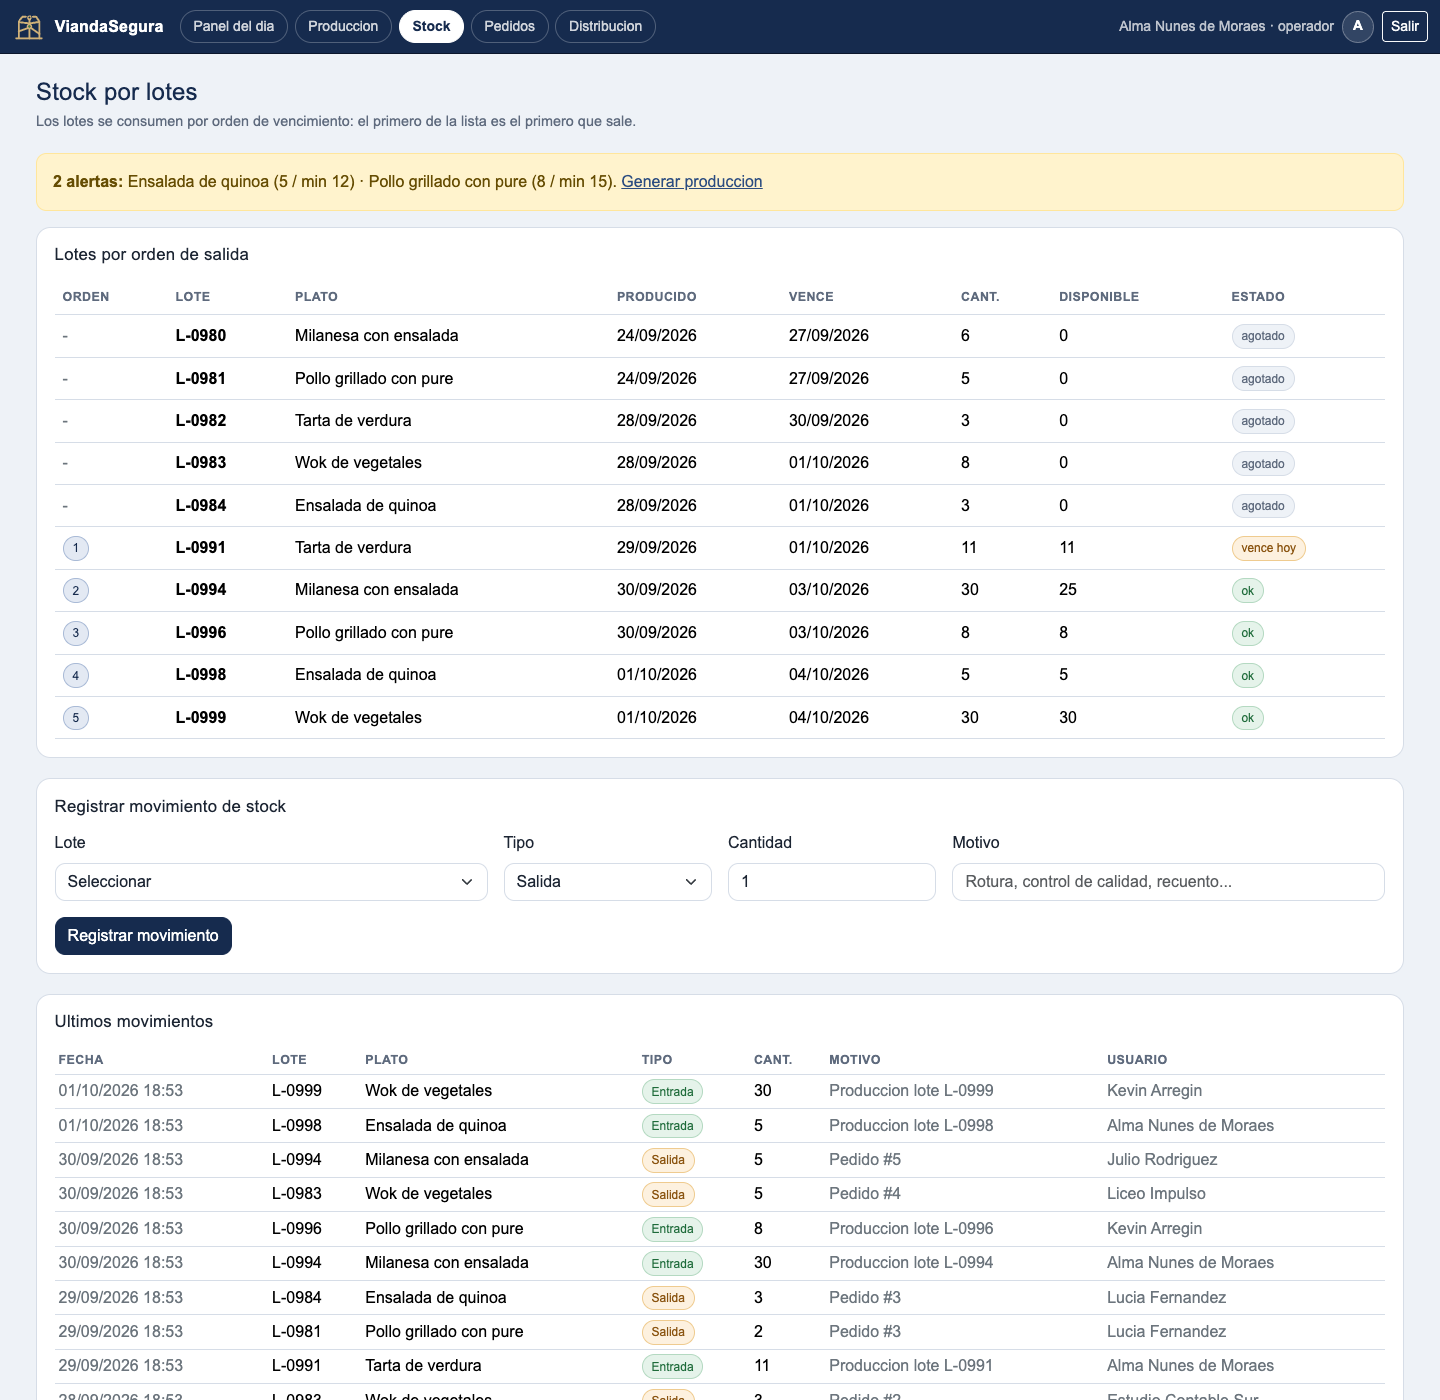
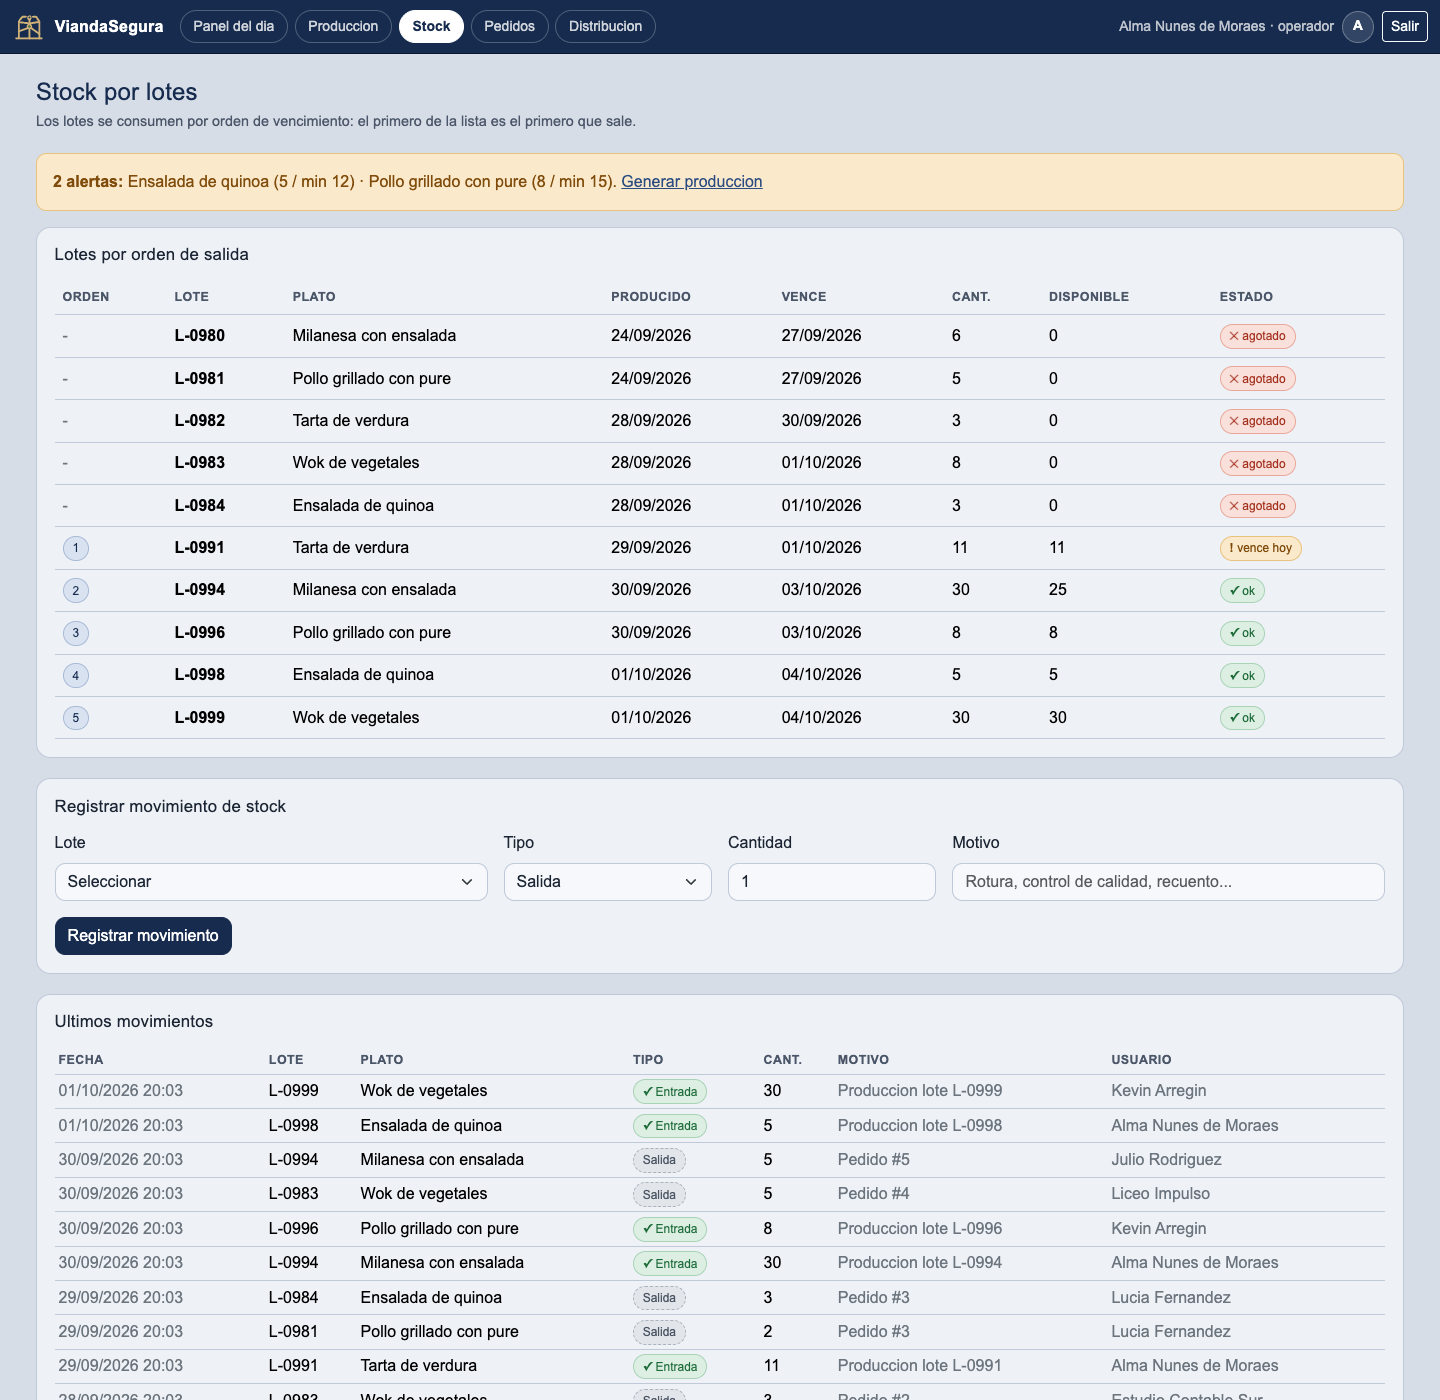
fix: clearer status label colors and dimmer panels
- One consistent status scale across every screen, each color with its
  own symbol: green check = available/ok, amber ! = needs attention,
  red cross = sold out/expired/cancelled, dashed grey = neutral or out
  of use, blue = in progress
- 'agotado' is now red everywhere (client menu, order form, stock lots,
  minimum stock); expired lots and cancelled orders too
- Order state colors come from a single clase_estado() helper, which
  also fixes cancelled orders showing as in-progress on the dashboard
- Stock movements: Salida is neutral instead of a warning, Ajuste blue
- Sold-out dishes in the client menu are muted with a dashed border
  instead of lowering the opacity of the whole card (and its label)
- Darker page background (#d6dde7) and off-white panels (#eef1f6) with
  stronger borders; secondary text darkened to keep AA contrast
- Warning banners use the same amber as the labels
- Document the color scale in docs/pantallas.md and refresh screenshots

Closes #8

diff --git a/sistema/assets/css/atrax.css b/sistema/assets/css/atrax.css
@@ -6,30 +6,38 @@
   --azul-600: #2b4c80;
   --azul-500: #3d5e91;
   --azul-300: #a9bad6;
-  --azul-200: #ccd7e8;
-  --azul-100: #e3e9f3;
-  --azul-50: #f2f5fa;
+  --azul-200: #c3d0e6;
+  --azul-100: #d9e2f1;
+  --azul-50: #dfe6f0;
   --dorado: #d0b178;
 
-  --papel: #f8fafc;
-  --papel-2: #eef2f7;
+  /* Superficies: fondo gris azulado y paneles en blanco roto (issue #8: menos brillo). */
+  --papel: #e4e9f0;
+  --papel-2: #d6dde7;
+  --superficie: #eef1f6;
+  --superficie-alta: #f6f8fb;
   --tinta: #1c2533;
-  --tinta-2: #5e6a7d;
-  --linea: #d6dde7;
+  --tinta-2: #4b5669;
+  --linea: #bfc9d7;
 
-  --ok-fondo: #e5f3ea;
-  --ok-borde: #b4d9c1;
+  /* Escala de estados: verde ok, ambar atencion, rojo agotado/vencido/cancelado,
+     gris inactivo/descartado y azul para lo que esta en curso. */
+  --ok-fondo: #dcefe2;
+  --ok-borde: #a9d3b7;
   --ok-texto: #1e6b3a;
-  --aviso-fondo: #fdf1df;
-  --aviso-borde: #efcb8f;
-  --aviso-texto: #8a5410;
-  --error-fondo: #fbe9e6;
-  --error-borde: #efb8ae;
+  --aviso-fondo: #fbe9cc;
+  --aviso-borde: #e9c27e;
+  --aviso-texto: #7f4c0b;
+  --error-fondo: #f9e0db;
+  --error-borde: #eaa89b;
   --error-texto: #a3301d;
+  --neutro-fondo: #e2e5ea;
+  --neutro-borde: #aab2be;
+  --neutro-texto: #4b5563;
 
   --bs-primary: #162b4e;
   --bs-primary-rgb: 22, 43, 78;
-  --bs-body-bg: #fff;
+  --bs-body-bg: var(--superficie-alta);
   --bs-body-color: var(--tinta);
   --bs-border-color: var(--linea);
   --bs-link-color: var(--azul-600);
@@ -78,6 +86,13 @@ h1, h2, h3 { letter-spacing: .2px; }
   --bs-btn-hover-border-color: #86271a;
   --bs-btn-active-bg: #6f2015;
   --bs-btn-active-border-color: #6f2015;
+}
+
+.alert-warning {
+  --bs-alert-bg: var(--aviso-fondo);
+  --bs-alert-border-color: var(--aviso-borde);
+  --bs-alert-color: var(--aviso-texto);
+  --bs-alert-link-color: var(--aviso-texto);
 }
 
 .form-control:focus, .form-select:focus {
@@ -151,7 +166,7 @@ h1, h2, h3 { letter-spacing: .2px; }
   font-size: .875rem;
   color: var(--tinta-2);
   text-decoration: none;
-  background: #fff;
+  background: var(--superficie);
 }
 
 .atrax-pills .pill:hover { border-color: var(--azul-300); color: var(--azul); }
@@ -166,7 +181,7 @@ h1, h2, h3 { letter-spacing: .2px; }
 .atrax-topbar .atrax-pills .pill:hover { border-color: rgba(255, 255, 255, .6); color: #fff; }
 .atrax-topbar .atrax-pills .pill.active { background: #fff; border-color: #fff; color: var(--azul); font-weight: 600; }
 
-.atrax-sidebar { background: #fff; border-right: 1px solid var(--linea); min-height: 100%; }
+.atrax-sidebar { background: var(--superficie); border-right: 1px solid var(--linea); min-height: 100%; }
 .atrax-sidebar .nav-link { color: var(--tinta-2); border-radius: .5rem; padding: .5rem .75rem; }
 .atrax-sidebar .nav-link:hover { background: var(--azul-50); color: var(--azul); }
 .atrax-sidebar .nav-link.active {
@@ -205,11 +220,11 @@ h1, h2, h3 { letter-spacing: .2px; }
   text-align: center;
   font-size: .8rem;
   color: var(--tinta-2);
-  background: #fff;
+  background: var(--superficie);
 }
 
 .tarjeta {
-  background: #fff;
+  background: var(--superficie);
   border: 1px solid var(--linea);
   border-radius: .9rem;
   padding: 1.1rem;
@@ -226,11 +241,13 @@ h1, h2, h3 { letter-spacing: .2px; }
 
 .tarjeta-numero { font-size: 2rem; font-weight: 700; line-height: 1.1; color: var(--azul); }
 .tarjeta-pie { font-size: .8rem; color: var(--tinta-2); }
-.tarjeta.alerta { border-color: var(--aviso-borde); background: #fff8ec; }
+.tarjeta.alerta { border-color: var(--aviso-borde); background: #f6e8cf; }
+.tarjeta.agotado { background: var(--papel); border-style: dashed; }
+.tarjeta.agotado h3, .tarjeta.agotado p { color: var(--tinta-2); }
 .tarjeta.alerta .tarjeta-numero { color: var(--aviso-texto); }
 
 .panel {
-  background: #fff;
+  background: var(--superficie);
   border: 1px solid var(--linea);
   border-radius: .9rem;
   padding: 1.1rem;
@@ -265,19 +282,30 @@ h1, h2, h3 { letter-spacing: .2px; }
 .table thead th { font-size: .78rem; text-transform: uppercase; letter-spacing: .4px; color: var(--tinta-2); }
 
 .etiqueta {
-  display: inline-block;
+  display: inline-flex;
+  align-items: center;
+  gap: .3em;
   padding: .15rem .55rem;
   border-radius: 999px;
   font-size: .75rem;
-  border: 1px solid var(--linea);
-  background: var(--papel-2);
-  color: var(--tinta-2);
+  font-weight: 500;
+  border: 1px dashed var(--neutro-borde);
+  background: var(--neutro-fondo);
+  color: var(--neutro-texto);
   white-space: nowrap;
 }
 
+/* Cada estado lleva un simbolo ademas del color, para no depender solo de el. */
+.etiqueta.ok, .etiqueta.aviso, .etiqueta.peligro { border-style: solid; }
+.etiqueta.ok::before, .etiqueta.aviso::before, .etiqueta.peligro::before { font-weight: 700; line-height: 1; }
+
 .etiqueta.ok { background: var(--ok-fondo); border-color: var(--ok-borde); color: var(--ok-texto); }
+.etiqueta.ok::before { content: "\2713"; content: "\2713" / ""; }
 .etiqueta.aviso { background: var(--aviso-fondo); border-color: var(--aviso-borde); color: var(--aviso-texto); }
-.etiqueta.acento { background: var(--azul-100); border-color: var(--azul-300); color: var(--azul); }
+.etiqueta.aviso::before { content: "!"; content: "!" / ""; }
+.etiqueta.peligro { background: var(--error-fondo); border-color: var(--error-borde); color: var(--error-texto); }
+.etiqueta.peligro::before { content: "\2715"; content: "\2715" / ""; }
+.etiqueta.acento { background: var(--azul-100); border: 1px solid var(--azul-300); color: var(--azul); }
 
 .linea-tiempo { list-style: none; margin: 0; padding: 0; }
 .linea-tiempo li { display: flex; gap: .75rem; padding-bottom: 1rem; position: relative; }
@@ -295,7 +323,7 @@ h1, h2, h3 { letter-spacing: .2px; }
   height: 24px;
   border-radius: 50%;
   border: 2px solid var(--linea);
-  background: #fff;
+  background: var(--superficie-alta);
   display: flex;
   align-items: center;
   justify-content: center;
@@ -312,7 +340,7 @@ h1, h2, h3 { letter-spacing: .2px; }
 .acceso-tarjeta {
   width: 100%;
   max-width: 420px;
-  background: #fff;
+  background: var(--superficie-alta);
   border: 1px solid rgba(255, 255, 255, .6);
   border-radius: 1rem;
   padding: 2rem 1.75rem;
@@ -352,7 +380,7 @@ h1, h2, h3 { letter-spacing: .2px; }
   align-items: flex-start;
   gap: .75rem;
   padding: .85rem .9rem .95rem;
-  background: #fff;
+  background: var(--superficie-alta);
   border: 1px solid var(--linea);
   border-left: 4px solid var(--azul);
   border-radius: .8rem;
@@ -428,7 +456,7 @@ h1, h2, h3 { letter-spacing: .2px; }
 }
 
 .vs-modal .modal-header { border-bottom-color: var(--linea); }
-.vs-modal .modal-footer { border-top-color: var(--linea); background: var(--papel); }
+.vs-modal .modal-footer { border-top-color: var(--linea); background: var(--superficie); }
 .vs-modal .modal-title { color: var(--azul); }
 
 .vs-modal-icono {

diff --git a/sistema/operador/stock.php b/sistema/operador/stock.php
@@ -56,9 +56,9 @@ require __DIR__ . '/../includes/cabecera.php';
             <td><?= (int) $lote['disponible'] ?></td>
             <td>
               <?php if ($lote['estado'] !== 'Disponible'): ?>
-                <span class="etiqueta"><?= e(strtolower($lote['estado'])) ?></span>
+                <span class="etiqueta <?= $lote['estado'] === 'Agotado' ? 'peligro' : '' ?>"><?= e(strtolower($lote['estado'])) ?></span>
               <?php elseif ((int) $lote['dias_para_vencer'] < 0): ?>
-                <span class="etiqueta aviso">vencido</span>
+                <span class="etiqueta peligro">vencido</span>
               <?php elseif ((int) $lote['dias_para_vencer'] === 0): ?>
                 <span class="etiqueta aviso">vence hoy</span>
               <?php else: ?>
@@ -129,7 +129,7 @@ require __DIR__ . '/../includes/cabecera.php';
             <td class="text-secondary"><?= fecha_hora($movimiento['fecha']) ?></td>
             <td><?= e($movimiento['numero_lote']) ?></td>
             <td><?= e($movimiento['producto']) ?></td>
-            <td><span class="etiqueta <?= $movimiento['tipo'] === 'Entrada' ? 'ok' : 'aviso' ?>"><?= e($movimiento['tipo']) ?></span></td>
+            <td><span class="etiqueta <?= $movimiento['tipo'] === 'Entrada' ? 'ok' : ($movimiento['tipo'] === 'Ajuste' ? 'acento' : '') ?>"><?= e($movimiento['tipo']) ?></span></td>
             <td><?= (int) $movimiento['cantidad'] ?></td>
             <td class="text-secondary"><?= e($movimiento['motivo']) ?></td>
             <td class="text-secondary"><?= e($movimiento['usuario']) ?></td>

diff --git a/sistema/operador/distribucion.php b/sistema/operador/distribucion.php
@@ -75,7 +75,7 @@ require __DIR__ . '/../includes/cabecera.php';
             <article class="tarjeta">
               <div class="d-flex justify-content-between align-items-start mb-1">
                 <h3 class="h6 mb-0"><?= e($vehiculo['nombre'] . ' · ' . $vehiculo['zona_codigo']) ?></h3>
-                <span class="etiqueta <?= $lleno ? 'aviso' : ($vehiculo['estado'] === 'Disponible' ? 'ok' : '') ?>">
+                <span class="etiqueta <?= $lleno ? 'aviso' : ($vehiculo['estado'] === 'Disponible' ? 'ok' : ($vehiculo['estado'] === 'En ruta' ? 'acento' : '')) ?>">
                   <?= $lleno ? 'capacidad llena' : e($vehiculo['estado']) ?>
                 </span>
               </div>
@@ -97,7 +97,7 @@ require __DIR__ . '/../includes/cabecera.php';
                         <button class="btn btn-sm btn-outline-secondary" type="submit">Quitar</button>
                       </form>
                     <?php else: ?>
-                      <span class="etiqueta acento"><?= e($pedido['estado']) ?></span>
+                      <span class="etiqueta <?= clase_estado($pedido['estado']) ?>"><?= e($pedido['estado']) ?></span>
                     <?php endif; ?>
                   </li>
                 <?php endforeach; ?>

diff --git a/sistema/admin/stock.php b/sistema/admin/stock.php
@@ -30,7 +30,10 @@ require __DIR__ . '/../includes/cabecera.php';
         </thead>
         <tbody>
           <?php foreach ($productos as $producto): ?>
-            <?php $bajo = (int) $producto['disponible'] < (int) $producto['stock_minimo']; ?>
+            <?php
+            $agotado = (int) $producto['disponible'] <= 0;
+            $bajo    = (int) $producto['disponible'] < (int) $producto['stock_minimo'];
+            ?>
             <tr>
               <td class="fw-semibold"><?= e($producto['nombre']) ?></td>
               <td><?= (int) $producto['disponible'] ?></td>
@@ -41,7 +44,7 @@ require __DIR__ . '/../includes/cabecera.php';
                        name="minimo[<?= (int) $producto['id'] ?>]"
                        value="<?= (int) $producto['stock_minimo'] ?>">
               </td>
-              <td><span class="etiqueta <?= $bajo ? 'aviso' : 'ok' ?>"><?= $bajo ? 'bajo' : 'ok' ?></span></td>
+              <td><span class="etiqueta <?= $agotado ? 'peligro' : ($bajo ? 'aviso' : 'ok') ?>"><?= $agotado ? 'agotado' : ($bajo ? 'bajo' : 'ok') ?></span></td>
             </tr>
           <?php endforeach; ?>
         </tbody>

diff --git a/sistema/admin/pedidos.php b/sistema/admin/pedidos.php
@@ -74,7 +74,7 @@ require __DIR__ . '/../includes/cabecera.php';
             <td><?= e($pedido['zona_codigo']) ?></td>
             <td><?= fecha_corta($pedido['fecha_entrega']) ?></td>
             <td><?= (int) $pedido['viandas'] ?></td>
-            <td><span class="etiqueta <?= $pedido['estado'] === 'Entregado' ? 'ok' : ($pedido['estado'] === 'Cancelado' ? '' : 'acento') ?>"><?= e($pedido['estado']) ?></span></td>
+            <td><span class="etiqueta <?= clase_estado($pedido['estado']) ?>"><?= e($pedido['estado']) ?></span></td>
             <td><?= e($pedido['vehiculo'] ?? 'sin asignar') ?></td>
             <td class="text-end"><?= moneda($pedido['total']) ?></td>
             <td class="text-end"><a class="btn btn-sm btn-outline-secondary" href="<?= url('admin/pedidos.php?ver=' . (int) $pedido['id']) ?>">Ver</a></td>

diff --git a/sistema/cliente/index.php b/sistema/cliente/index.php
@@ -45,10 +45,10 @@ require __DIR__ . '/../includes/cabecera.php';
     <?php foreach ($productos as $producto): ?>
       <?php $agotado = (int) $producto['disponible'] <= 0; ?>
       <div class="col-md-6 col-xl-4">
-        <article class="tarjeta<?= $agotado ? ' opacity-75' : '' ?>">
+        <article class="tarjeta<?= $agotado ? ' agotado' : '' ?>">
           <div class="d-flex justify-content-between align-items-start mb-1">
             <h3 class="h6 mb-0"><?= e($producto['nombre']) ?></h3>
-            <span class="etiqueta <?= $agotado ? 'aviso' : 'ok' ?>">
+            <span class="etiqueta <?= $agotado ? 'peligro' : 'ok' ?>">
               <?= $agotado ? 'agotado hoy' : (int) $producto['disponible'] . ' disp.' ?>
             </span>
           </div>

diff --git a/sistema/operador/pedidos.php b/sistema/operador/pedidos.php
@@ -51,7 +51,7 @@ require __DIR__ . '/../includes/cabecera.php';
             <td><?= e($pedido['zona_codigo']) ?></td>
             <td><?= fecha_corta($pedido['fecha_entrega']) ?></td>
             <td><?= (int) $pedido['viandas'] ?></td>
-            <td><span class="etiqueta <?= $pedido['estado'] === 'Entregado' ? 'ok' : ($pedido['estado'] === 'Cancelado' ? '' : 'acento') ?>"><?= e($pedido['estado']) ?></span></td>
+            <td><span class="etiqueta <?= clase_estado($pedido['estado']) ?>"><?= e($pedido['estado']) ?></span></td>
             <td>
               <?php if ($siguientes): ?>
                 <form class="d-flex gap-2" action="<?= url('acciones/pedidos.php') ?>" method="post"

diff --git a/sistema/admin/index.php b/sistema/admin/index.php
@@ -70,7 +70,7 @@ require __DIR__ . '/../includes/cabecera.php';
                 <td><?= e($pedido['cliente']) ?></td>
                 <td><?= e($pedido['zona_codigo']) ?></td>
                 <td><?= fecha_corta($pedido['fecha_entrega']) ?></td>
-                <td><span class="etiqueta <?= $pedido['estado'] === 'Entregado' ? 'ok' : 'acento' ?>"><?= e($pedido['estado']) ?></span></td>
+                <td><span class="etiqueta <?= clase_estado($pedido['estado']) ?>"><?= e($pedido['estado']) ?></span></td>
                 <td class="text-end"><?= moneda($pedido['total']) ?></td>
               </tr>
             <?php endforeach; ?>

diff --git a/sistema/cliente/pedidos.php b/sistema/cliente/pedidos.php
@@ -32,7 +32,7 @@ require __DIR__ . '/../includes/cabecera.php';
         <article class="tarjeta">
           <div class="d-flex justify-content-between align-items-start mb-1">
             <h3 class="h6 mb-0">#<?= (int) $pedido['id'] ?></h3>
-            <span class="etiqueta <?= $pedido['estado'] === 'Entregado' ? 'ok' : ($pedido['estado'] === 'Cancelado' ? '' : 'acento') ?>">
+            <span class="etiqueta <?= clase_estado($pedido['estado']) ?>">
               <?= e($pedido['estado']) ?>
             </span>
           </div>

diff --git a/sistema/includes/funciones.php b/sistema/includes/funciones.php
@@ -66,6 +66,17 @@ function moneda($valor): string
     return '$ ' . number_format((float) $valor, 0, ',', '.');
 }
 
+function clase_estado(string $estado): string
+{
+    // Mismo color para cada estado del pedido en todas las pantallas.
+    $clases = [
+        'Entregado' => 'ok',
+        'Cancelado' => 'peligro',
+    ];
+
+    return $clases[$estado] ?? 'acento';
+}
+
 function fecha_corta(?string $valor): string
 {
     return $valor ? date('d/m/Y', strtotime($valor)) : '-';

diff --git a/sistema/cliente/pedido.php b/sistema/cliente/pedido.php
@@ -51,7 +51,7 @@ require __DIR__ . '/../includes/cabecera.php';
                     <?php if ($disponible > 0): ?>
                       <span class="etiqueta ok"><?= $disponible ?></span>
                     <?php else: ?>
-                      <span class="etiqueta aviso">agotado</span>
+                      <span class="etiqueta peligro">agotado</span>
                     <?php endif; ?>
                   </td>
                   <td>

diff --git a/sistema/cliente/seguimiento.php b/sistema/cliente/seguimiento.php
@@ -36,7 +36,7 @@ require __DIR__ . '/../includes/cabecera.php';
       <header><h2>Estado</h2></header>
 
       <?php if ($pedido['estado'] === 'Cancelado'): ?>
-        <p class="etiqueta aviso">Pedido cancelado</p>
+        <p class="etiqueta peligro">Pedido cancelado</p>
       <?php endif; ?>
 
       <ol class="linea-tiempo">
